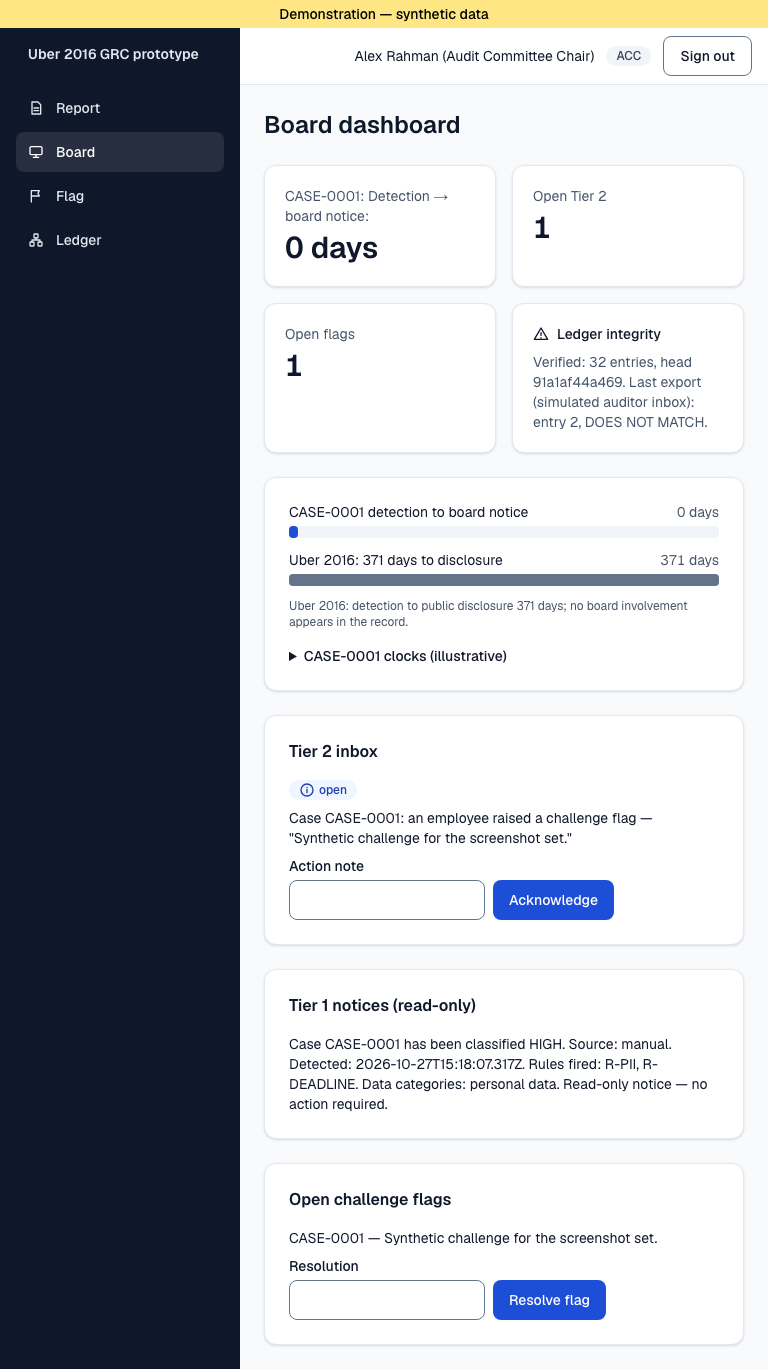
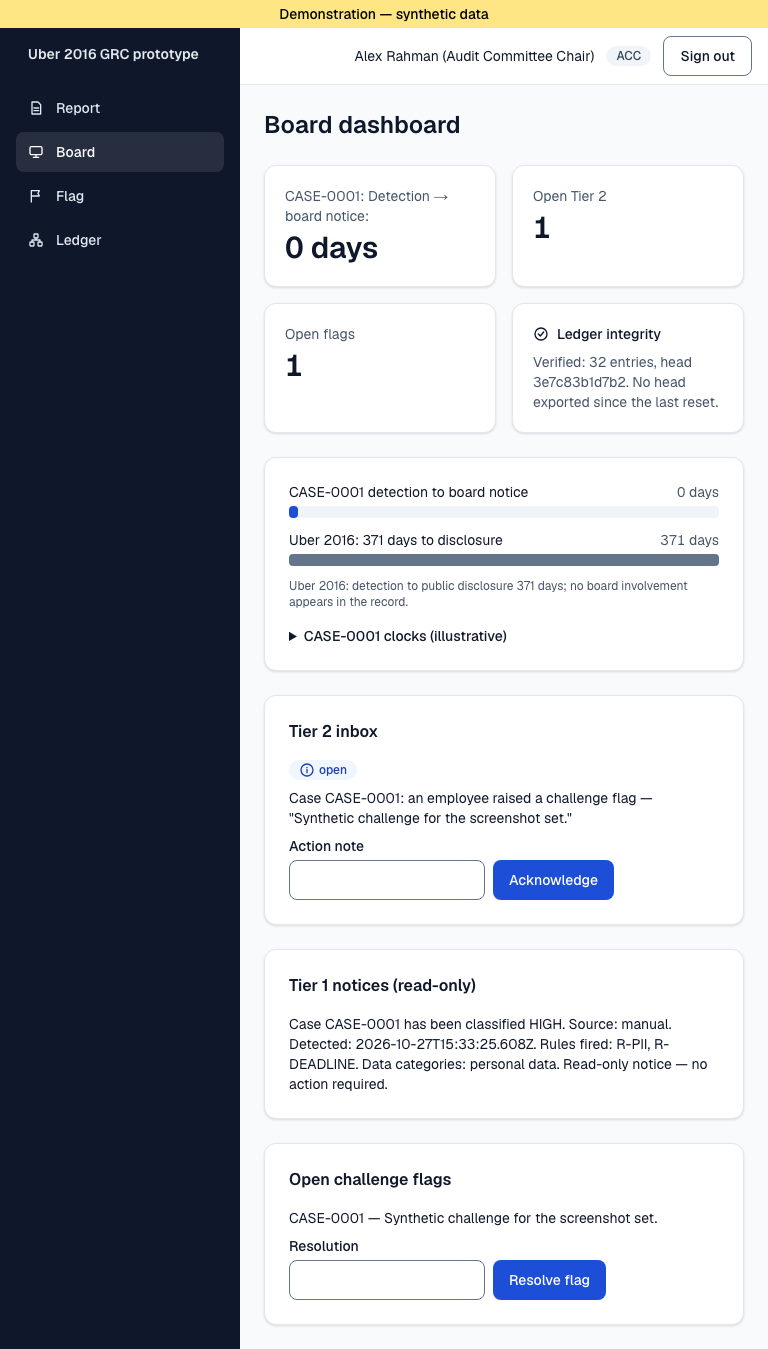
ux: fix 768 clocks, stale-export wording, docs

diff --git a/tests/e2e/ui-shell.spec.ts b/tests/e2e/ui-shell.spec.ts
@@ -195,6 +195,7 @@ test("cases list and case detail keep their contract in the dashboard layout", a
     page.getByRole("region", { name: "Decision gate" }),
   ).toBeInViewport();
   await expect(page.getByRole("button", { name: "Close case" })).toBeEnabled();
+  await page.setViewportSize({ width: 1440, height: 900 });
   const clocks = page.getByRole("region", { name: "Clocks (illustrative)" });
   const gateBox = await page.getByRole("region", { name: "Decision gate" }).boundingBox();
   const clocksBox = await clocks.boundingBox();
@@ -213,6 +214,37 @@ test("cases list and case detail keep their contract in the dashboard layout", a
       ]),
     ),
   ).not.toContain(true);
+  const sizes: [number, number][] = [
+    [768, 1024],
+    [1024, 768],
+    [1440, 900],
+  ];
+  for (const [width, height] of sizes) {
+    await page.setViewportSize({ width, height });
+    const card = await clocks.boundingBox();
+    const rows = page.locator('[data-testid^="clock-"]');
+    for (let i = 0; i < (await rows.count()); i++) {
+      const last = await rows.nth(i).locator("td").last().boundingBox();
+      expect(last!.x + last!.width, `${width}px row ${i} Elapsed inside card`).toBeLessThanOrEqual(
+        card!.x + card!.width,
+      );
+    }
+    expect(
+      await page.evaluate(() =>
+        [...document.querySelectorAll('[data-testid^="clock-"] td')].some(
+          (c) => c.scrollWidth > c.clientWidth,
+        ),
+      ),
+      `${width}px clipped clock cell`,
+    ).toBe(false);
+    expect(
+      await page.evaluate(() => {
+        const w = document.querySelector('[data-testid^="clock-"]')!.closest(".overflow-x-auto") as HTMLElement;
+        return w.scrollWidth > w.clientWidth;
+      }),
+      `${width}px sideways scroll`,
+    ).toBe(false);
+  }
 });
 
 test("ledger shows verify result, failure label and a Demo only region", async ({
@@ -248,7 +280,6 @@ test("ledger shows verify result, failure label and a Demo only region", async (
   ).toBe(true);
   // Key columns (#, Time, Actor, Event) stay readable without sideways scrolling.
   await expect(page.getByRole("columnheader", { name: "Time" })).toBeHidden();
-  const firstEvent = await page.locator("tbody tr").first().locator("td").nth(3).boundingBox();
   // Event names may wrap only at underscores: each cell's longest word fits.
   expect(
     await page.evaluate(() =>
@@ -257,7 +288,6 @@ test("ledger shows verify result, failure label and a Demo only region", async (
       ),
     ),
   ).toBe(false);
-  expect(firstEvent!.x + firstEvent!.width).toBeLessThanOrEqual(375);
   await page.setViewportSize({ width: 1440, height: 900 });
   await expect(page.getByRole("columnheader", { name: "Time" })).toBeVisible();
   await page.setViewportSize({ width: 375, height: 812 });
@@ -317,12 +347,10 @@ test("board integrity card shows the alert icon when verification fails", async 
   await loginAs(page, "acc");
   await page.goto("/board");
   await expect(page.getByTestId("head-status")).toContainText("Verification failed");
-  const card = page.getByTestId("head-status").locator("..");
-  await expect(card.locator('svg path[d^="M12 3 2 20"]')).toHaveCount(1);
-  await expect(card.locator('svg circle')).toHaveCount(0);
+  await expect(page.getByTestId("integrity-icon")).toHaveAttribute("data-state", "alert");
 });
 
-test("board integrity card shows the alert icon when the export line says DOES NOT MATCH", async ({
+test("board integrity card treats a pre-reset export as stale, not a mismatch", async ({
   page,
 }) => {
   await resetDemo(page);
@@ -333,7 +361,9 @@ test("board integrity card shows the alert icon when the export line says DOES N
   await loginAs(page, "acc");
   await page.goto("/board");
   await expect(page.getByTestId("head-status")).toContainText("Verified");
-  await expect(page.getByTestId("head-status")).toContainText("DOES NOT MATCH");
-  const card = page.getByTestId("head-status").locator("..");
-  await expect(card.locator('svg path[d^="M12 3 2 20"]')).toHaveCount(1);
+  await expect(page.getByTestId("head-status")).toContainText(
+    "No head exported since the last reset.",
+  );
+  await expect(page.getByTestId("head-status")).not.toContainText("DOES NOT MATCH");
+  await expect(page.getByTestId("integrity-icon")).toHaveAttribute("data-state", "ok");
 });

diff --git a/src/app/(app)/board/page.tsx b/src/app/(app)/board/page.tsx
@@ -20,6 +20,15 @@ async function Board({ searchParams }: PageProps<"/board">) {
   await sweep(); // escalations are evaluated on load (spec §8), as the system actor
   const b = await getBoard(actor);
   const sp = await searchParams;
+  // verify.ts ignores exports made before the last DEMO_RESET but getBoard's lastExport does not.
+  const exportState = !b.lastExport
+    ? "none"
+    : b.verify.exportedHead === undefined
+      ? "stale"
+      : b.verify.exportedHead.matches
+        ? "match"
+        : "mismatch";
+  const iconState = b.verify.ok && exportState !== "mismatch" ? "ok" : "alert";
   const openTier2 = b.tier2.filter((t) => t.status === "open").length;
   const first = b.cases[0];
   return (
@@ -52,11 +61,9 @@ async function Board({ searchParams }: PageProps<"/board">) {
           />
           <div className="rounded-xl border border-line bg-surface p-5 shadow-sm">
             <p className="flex items-center gap-2 text-sm font-medium text-ink">
-              {b.verify.ok && !(b.lastExport && !b.verify.exportedHead?.matches) ? (
-                <IconCheck />
-              ) : (
-                <IconAlert />
-              )}
+              <span data-testid="integrity-icon" data-state={iconState}>
+                {iconState === "ok" ? <IconCheck /> : <IconAlert />}
+              </span>
               Ledger integrity
             </p>
             <p
@@ -66,9 +73,11 @@ async function Board({ searchParams }: PageProps<"/board">) {
               {b.verify.ok
                 ? `Verified: ${b.verify.count} entries, head ${b.verify.headHash.slice(0, 12)}.`
                 : `Verification failed at entry ${b.verify.failedAtSeq}.`}{" "}
-              {b.lastExport
-                ? `Last export (simulated auditor inbox): entry ${b.lastExport.seq}, ${b.verify.exportedHead?.matches ? "matches" : "DOES NOT MATCH"}.`
-                : "No head exported yet."}
+              {exportState === "none"
+                ? "No head exported yet."
+                : exportState === "stale"
+                  ? "No head exported since the last reset."
+                  : `Last export (simulated auditor inbox): entry ${b.lastExport!.seq}, ${exportState === "match" ? "matches" : "DOES NOT MATCH"}.`}
             </p>
           </div>
         </div>

diff --git a/src/app/(app)/cases/[id]/DecisionSummary.tsx b/src/app/(app)/cases/[id]/DecisionSummary.tsx
@@ -134,7 +134,7 @@ export function DecisionSummary({
               const cb = clockBadge(k.status);
               return (
                 <tr key={k.id} data-testid={`clock-${k.id}`}>
-                  <Td className="min-w-40 break-words">
+                  <Td className="break-words lg:min-w-40">
                     {k.label}
                     {k.note && (
                       <div className="text-xs text-muted">{k.note}</div>
@@ -143,7 +143,21 @@ export function DecisionSummary({
                   <Td>
                     <Badge variant={cb.variant}>{k.status}</Badge>
                   </Td>
-                  <Td className="whitespace-nowrap">{k.dueAt ?? "—"}</Td>
+                  <Td className="break-words lg:whitespace-nowrap">
+                    {k.dueAt ? (
+                      <>
+                        {k.dueAt.split("T")[0]}
+                        {k.dueAt.includes("T") && (
+                          <>
+                            T<wbr />
+                            {k.dueAt.split("T").slice(1).join("T")}
+                          </>
+                        )}
+                      </>
+                    ) : (
+                      "—"
+                    )}
+                  </Td>
                   <Td>
                     {k.pctElapsed === null ? "—" : `${k.pctElapsed}%`}
                   </Td>

diff --git a/docs/ai/HANDOVER.md b/docs/ai/HANDOVER.md
@@ -1,8 +1,17 @@
 # Handover
 
 **Changed:** UX redesign on branch `ux/dashboard-redesign` (not pushed, no PR). Design tokens, shared UI components (`src/components/ui/*`), app shell with sidebar, skip link and mobile menu, every page restyled (login, report, cases, case detail, board, ledger, flag, demo). Old `Nav.tsx` removed. `tests/e2e/screens.spec.ts` (skipped unless `SCREENSHOTS=1`) writes 27 PNGs to `docs/evidence/screens/{1440,768,375}/`. Board page now uses `controlClass` instead of a local `inputCls`.
-**Verified (local, Postgres 16):** `npx eslint src tests` clean, typecheck clean, build OK. Unit 251/252 pass; the one failure is `.claude/worktrees/p1-.../tests/unit/authz.test.ts` (stale worktree copy, not the repo's test). Integration 136/136. `npm run e2e` 27 passed, 2 skipped (screens), including full-width clocks, 375px ledger column and integrity-icon assertions. Unit 251/252 (same stale worktree failure). `SCREENSHOTS=1 npx playwright test screens` 2 passed, 27 PNGs (case-detail capture now waits for the Decision gate region; earlier PNG was blank).
-**Not verified / not done:** hosted preview run; human review; PR not opened; e2e not yet a required check; Playwright `E2E_BASE_URL` support is still missing, so Task 5 of P4 cannot run against a hosted URL. Screenshots re-checked (second fix): case-detail 1440 Clocks is a full-width card below the grid, Due timestamps on one line; ledger 375 shows # / Actor+time / Event with event names breaking only at underscores (Time, Hash, Payload hidden below md); board integrity icon is the alert icon when the export line says DOES NOT MATCH. At 768 the Clocks table scrolls sideways inside its card (Elapsed column off-screen until scrolled). The board text says DOES NOT MATCH for a pre-reset stale export even when the chain verifies; wording unchanged.
+**Verified (local, Postgres 16):** `npx eslint src tests` clean, typecheck clean, build OK. Unit 390/391 pass; the one failure is `.claude/worktrees/p1-.../tests/unit/authz.test.ts` (stale worktree copy, not the repo's test). Integration 136/136. `npm run e2e` 27 passed, 2 skipped (screens), including clock-cell no-clip checks at 768/1024/1440, 375px ledger column and integrity-icon (`data-state`) assertions. `SCREENSHOTS=1 npx playwright test screens` 2 passed, 27 PNGs.
+**Not verified / not done:** hosted preview run; human review; PR not opened; e2e not yet a required check. Screenshots re-checked: at 768 the Clocks table shows all four columns (Due wraps after `T`, Elapsed visible, no sideways scroll); at 1440 Due stays on one line; ledger 375 shows # / Actor+time / Event; board shows "No head exported since the last reset." with the check icon after a reset (page-level fix, see carry-over).
 **Next:** open PR after P4 merges, rebase onto `main`, add `E2E_BASE_URL`, then P4 Task 5.
 **Decisions:** presentation only (no server/domain/migration change); status never colour-only (icon plus text); the shell wrapper is `div#main` and each page keeps its own `<main>`; screenshots are committed as evidence.
 **Gotchas:** run `npx eslint src tests`, not bare `npm run lint` (scans `.claude/worktrees`). Stray macOS `.next/types/* 2.ts` duplicates break `tsc`; delete them. Playwright runs `npm run build && npm run start`, so cold-start timing matters. Integration suite TRUNCATEs the target DB.
+
+## P4 carry-over (still open)
+- Task 5 (Neon preview migrate+seed, then hosted e2e) is Darius's; needs Neon credentials.
+- Mark `e2e` a required check; no reviewer-agent pass on P4 yet; human review of the `reset-demo.ts` lock change; manual click-through.
+- P4 decisions: (1) unmatched `caseRef` flag is a `FLAG_RAISED` entry with `matched:false`, no Tier 2 row (no migration allowed). (2) `resetDemo` takes `LOCK TABLE ledger_head IN ACCESS EXCLUSIVE MODE` first (row-lock deadlock reproduced). (3) `viewLedger` gained DEMO; `sweep` is EXEC only; board nav is ACC only. (4) Tamper leaves the stored hash, so an exported head still matches at its seq; verify fails by chain walk. (5) +24h expires the 8 h demo session; e2e re-logs in. (6) `kpi.ts` written before its test ran red.
+- Playwright has no `E2E_BASE_URL` support, so hosted runs are not possible yet.
+- `board.ts` `lastExport` ignores resets while `verify.ts` ignores pre-reset exports; this branch works around it in `board/page.tsx` only. Proper server fix plus test is a separate change. A true mismatch state cannot be produced by current e2e fixtures (tamper edits payload only), so it is untested.
+- Mobile ledger hides hash/payload cells (not reachable below md).
+- Screens spec uses real timestamps, so entry counts differ between viewport captures.

diff --git a/docs/ai/PROGRESS.md b/docs/ai/PROGRESS.md
@@ -7,6 +7,6 @@
 | P2 intake/cases | done | lint, typecheck, 178 unit, 79 integration, build, `npm run e2e` replay steps 1-3 + scenario C (4/4) green locally; CI green on PR #9 (10/10 checks, incl. e2e); merged | 2026-10-26 |
 | P3 gate/clocks | done (reviewed; PR #11 merged, CI 10/10 green incl. e2e) | lint, typecheck, 220 unit, 107 integration, build, `npm run e2e` replay steps 1-5 + scenario C (6/6) green locally and in CI | 2026-10-26 |
 | P4 board/ledger/e2e | code done locally; preview (Task 5, Darius) pending, not committed to main | lint, typecheck, 223 unit (+1 stale-worktree failure outside tests/), 131 integration, build, `npm run e2e` 13/13 (replay steps 1-8 + scenarios B-F) green locally | 2026-10-26 |
-| UX redesign | done on branch ux/dashboard-redesign, not yet merged | eslint src+tests, typecheck, build clean; 251/252 unit (1 stale-worktree failure outside tests/), 136 integration, `npm run e2e` 25 passed + 2 skipped (screens), `SCREENSHOTS=1` screens 2/2 -> 27 PNGs | 2026-10-27 |
+| UX redesign | done on branch ux/dashboard-redesign, not yet merged | eslint src+tests, typecheck, build clean; 390/391 unit (1 stale-worktree failure in `.claude/worktrees`), 136/136 integration, `npm run e2e` 27 passed + 2 skipped (screens), `SCREENSHOTS=1` screens 2/2 -> 27 PNGs | 2026-10-27 |
 | P4.5 stretch | not started | | |
 | P5 freeze | not started | | |
